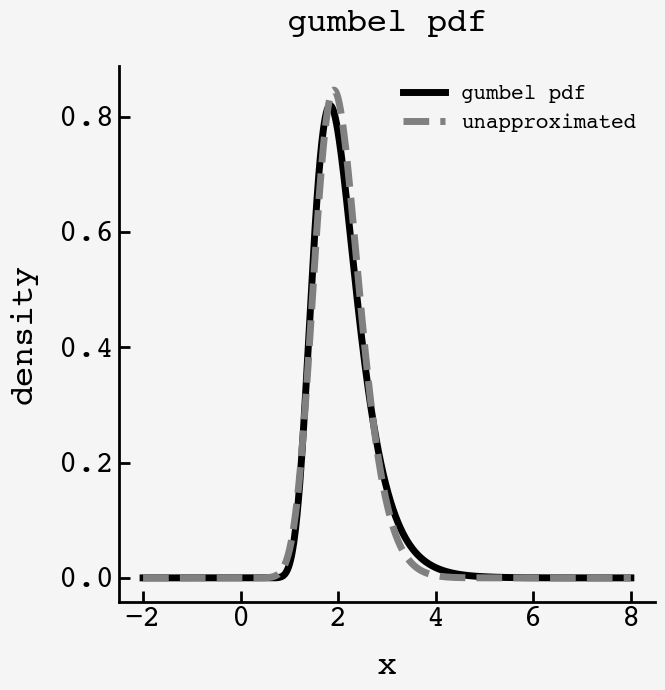
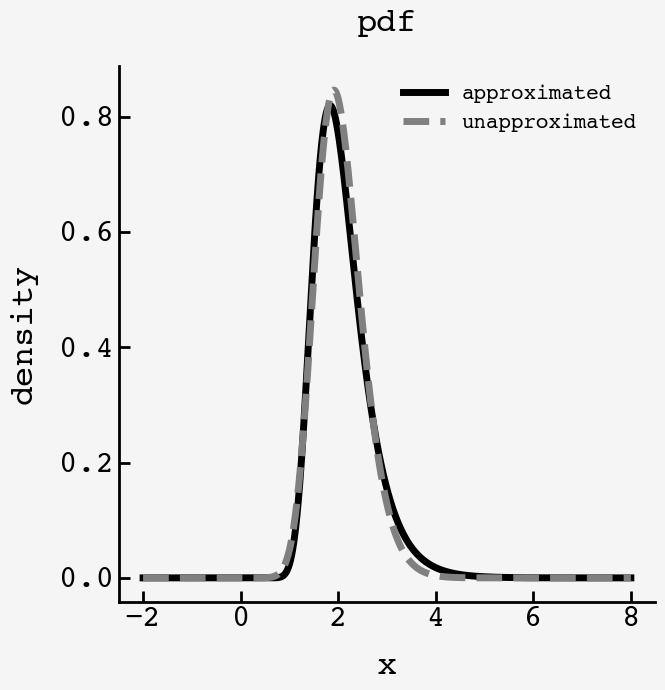
New pdf.

Changed region(s): [[0.4211, 0.0, 0.7218, 0.0609], [0.6917, 0.1217, 0.9323, 0.1522]]

diff --git a/_posts/2026-08-09-fiddler-baseball-league.md b/_posts/2026-08-09-fiddler-baseball-league.md
@@ -188,7 +188,7 @@ The second integral just becomes $y_0$ and the first becomes
 
 $$ \frac{1}{N\phi(y_0)} \int_{-\infty}^\infty \text{d}z\, z e^{-z}e^{-e^{-z}}. $$
 
-which features the Gumbel distribution whose pdf and cdf are shown below:
+which features the Gumbel distribution. The pdf of the approximation, as well as the unapproximated original are shown below:
 
 ![](/img/2026-08-10-gumbel-dists.png){:width="350 px" class="image-centered"}
 
